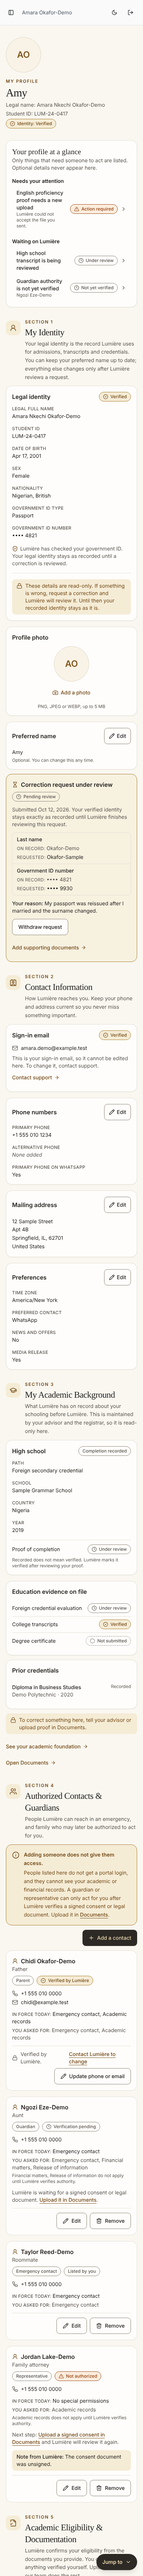
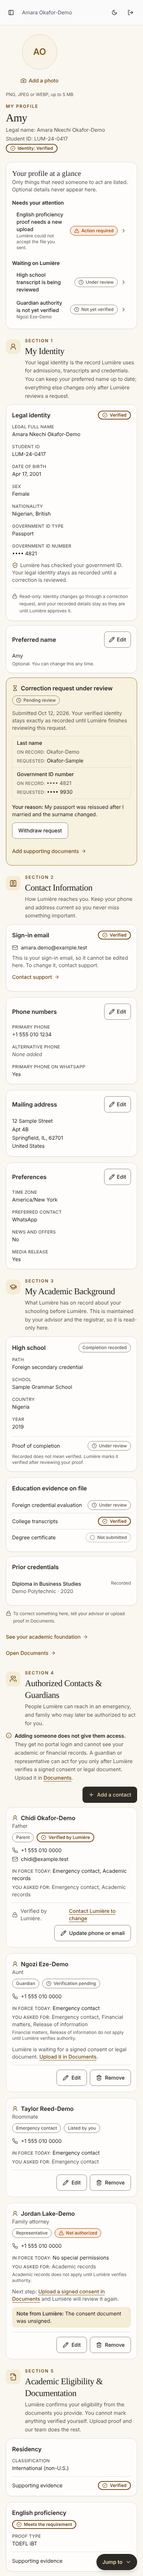
S09: design round 3 (compact dialog footer, explicit staff identity chip, distinct verified treatment)
Claude-Session: https://claude.ai/code/session_0194rFGzGiw8HjkEeZe1cvEj

Changed region(s): [[0.0308, 0.0311, 0.9846, 1.0]]

diff --git a/client/src/components/admin/student-profile-review.tsx b/client/src/components/admin/student-profile-review.tsx
@@ -32,6 +32,7 @@ import {
   showVerifyAction,
   correctionStatusLabel,
   identityTrust,
+  identityStatusChip,
   normalizeHistory,
   resolveBody,
   type TrustBadge,
@@ -59,7 +60,7 @@ async function staffRequest<T>(method: "GET" | "POST", url: string, body?: unkno
 
 const TONE_CLASS: Record<TrustBadge["tone"], string> = {
   verified: "border-green-600/40 bg-green-600/10 text-green-800 dark:text-green-300",
-  pending: "border-amber-500/50 bg-amber-500/10 text-amber-900 dark:text-amber-200",
+  pending: "border-amber-500/60 bg-amber-500/15 text-amber-900 dark:border-amber-400/60 dark:bg-amber-400/15 dark:text-amber-100",
   problem: "border-destructive/40 bg-destructive/10 text-red-700 dark:text-red-300",
   reported: "border-border bg-muted text-muted-foreground",
 };
@@ -73,7 +74,7 @@ const TONE_ICON: Record<TrustBadge["tone"], typeof CheckCircle2> = {
 
 function TrustPill({ badge }: { badge: TrustBadge }) {
   const Icon = TONE_ICON[badge.tone];
-  return <Badge variant="outline" className={`gap-1 whitespace-normal text-left ${TONE_CLASS[badge.tone]}`}>
+  return <Badge variant="outline" className={`gap-1 whitespace-normal text-left text-xs font-semibold ${TONE_CLASS[badge.tone]}`}>
     <Icon className="h-3.5 w-3.5 shrink-0" aria-hidden="true" />
     {badge.label}
   </Badge>;
@@ -82,7 +83,7 @@ function TrustPill({ badge }: { badge: TrustBadge }) {
 function StatusBadge({ status }: { status: IdentityCorrectionRequestView["status"] }) {
   const tone: TrustBadge["tone"] = status === "approved" ? "verified" : status === "pending" ? "pending" : status === "rejected" ? "problem" : "reported";
   const Icon = TONE_ICON[tone];
-  return <Badge variant="outline" className={`gap-1 ${TONE_CLASS[tone]}`}><Icon className="h-3.5 w-3.5 shrink-0" aria-hidden="true" />{correctionStatusLabel(status)}</Badge>;
+  return <Badge variant="outline" className={`gap-1 text-xs font-semibold ${TONE_CLASS[tone]}`}><Icon className="h-3.5 w-3.5 shrink-0" aria-hidden="true" />{correctionStatusLabel(status)}</Badge>;
 }
 
 function Field({ label, children }: { label: string; children: React.ReactNode }) {
@@ -216,6 +217,7 @@ export function StudentProfileReviewView({
   const { identity, contact, contacts } = profile;
   const pending = identity.pendingCorrection;
   const trust = identityTrust(identity.verification);
+  const idChip = identityStatusChip(identity.verification);
   const past = history.filter((h) => h.status !== "pending");
   const decisionContacts = contacts.filter(contactNeedsDecision);
   const decisionCount = (pending ? 1 : 0) + decisionContacts.length;
@@ -255,7 +257,7 @@ export function StudentProfileReviewView({
       </Card>)}
     </div> : null}
     <div className="grid gap-4 lg:grid-cols-2 [&>*]:min-w-0">
-      <Card><CardHeader className="pb-3"><div className="flex flex-wrap items-center justify-between gap-2"><CardTitle className="text-base">Legal identity</CardTitle><TrustPill badge={trust} /></div></CardHeader>
+      <Card><CardHeader className="pb-3"><div className="flex flex-wrap items-center justify-between gap-2"><CardTitle className="text-base">Legal identity</CardTitle><TrustPill badge={idChip} /></div><p className="pt-1 text-xs text-muted-foreground" data-testid="identity-trust-detail">{trust.label}</p></CardHeader>
         <CardContent><dl className="grid gap-3 sm:grid-cols-2">
           <Field label="Student code">{identity.studentCode}</Field>
           <Field label="Legal name">{[identity.firstName, identity.middleName, identity.lastName].filter(Boolean).join(" ")}</Field>
@@ -278,10 +280,15 @@ export function StudentProfileReviewView({
     </div>
     <Card><CardHeader className="pb-3"><CardTitle className="flex items-center gap-2 text-base"><Users className="h-4 w-4" aria-hidden="true" />Contacts &amp; guardian authority</CardTitle></CardHeader>
       <CardContent className="divide-y">
-        {contacts.length === 0 ? <p className="py-2 text-sm text-muted-foreground">The student has not listed any contacts.</p> : contacts.map((c) => <div key={c.id} className="space-y-2 py-3 first:pt-0" data-testid="staff-contact">
+        {contacts.length === 0 ? <p className="py-2 text-sm text-muted-foreground">The student has not listed any contacts.</p> : contacts.map((c) => contactNeedsDecision(c)
+          ? <div key={c.id} className="flex flex-wrap items-center justify-between gap-2 py-2 first:pt-0" data-testid="staff-contact" data-compact="true">
+              <p className="min-w-0 text-sm font-medium">{c.fullName} <span className="font-normal text-muted-foreground">· {c.relationship} ({humanize(c.type)})</span></p>
+              <a href="#needs-decision-heading" className="inline-flex min-h-[28px] items-center rounded-full border border-amber-500/60 bg-amber-500/15 px-2.5 text-xs font-semibold text-amber-900 underline-offset-2 hover:underline dark:border-amber-400/60 dark:bg-amber-400/15 dark:text-amber-100">Awaiting decision ↑</a>
+            </div>
+          : <div key={c.id} className="space-y-2 py-3 first:pt-0" data-testid="staff-contact">
             <div className="flex flex-wrap items-center justify-between gap-2"><p className="font-medium">{c.fullName} <span className="font-normal text-muted-foreground">· {c.relationship} ({humanize(c.type)})</span></p><TrustPill badge={authorityTrust(c.authorityStatus)} /></div>
             <ContactDetails c={c} />
-            {contactNeedsDecision(c) ? <p className="text-xs font-medium text-amber-800 dark:text-amber-200">Awaiting your decision — see “Needs a decision” above.</p> : <ContactActions c={c} canDecide={canDecide} onDecide={onDecide} />}
+            <ContactActions c={c} canDecide={canDecide} onDecide={onDecide} />
           </div>)}
       </CardContent></Card>
     <Card><CardHeader className="pb-3"><CardTitle className="text-base">Correction history</CardTitle></CardHeader>
@@ -290,6 +297,7 @@ export function StudentProfileReviewView({
         <p className="text-xs text-muted-foreground">{new Date(h.createdAt).toISOString().slice(0, 10)}{h.reviewedAt ? ` → ${new Date(h.reviewedAt).toISOString().slice(0, 10)}` : ""}{h.reviewNote ? ` · Note: ${h.reviewNote}` : ""}</p>
       </li>)}</ul>}</CardContent></Card>
     <p className="text-sm text-muted-foreground">Document verification is managed in <a className="font-medium underline underline-offset-2" href={STAFF_PROFILE_PATHS.documents(studentId)}>Documents</a>. Approving a correction never verifies a document.</p>
+    <p className="border-t-2 border-border pt-2 text-center text-xs font-medium uppercase tracking-wide text-muted-foreground" data-testid="profile-end">End of profile &amp; identity</p>
   </section>;
 }
 

diff --git a/client/src/components/profile/profile-ui.tsx b/client/src/components/profile/profile-ui.tsx
@@ -29,18 +29,24 @@ import { Pill, cardClass } from "@/components/student-progress/student-ui";
 import { sectionDomId, type ChipTone } from "./profile-presentation";
 
 export const inputClass =
-  "h-11 border-student-line-strong bg-student-card text-student-ink placeholder:text-student-muted focus-visible:ring-student-gold-ink";
+  "h-11 border-student-line-strong bg-student-card text-student-ink placeholder:text-student-muted focus:ring-student-gold-ink focus-visible:ring-student-gold-ink focus-visible:ring-offset-student-card";
 
-export const dialogClass = "student-surface border-student-line bg-student-card text-student-ink max-h-[90vh] overflow-y-auto overscroll-contain sm:max-w-lg";
+export const dialogClass = "student-surface border-student-line bg-student-card text-student-ink max-h-[90vh] overflow-y-auto overscroll-contain scroll-pb-24 sm:max-w-lg";
 
 const TONE_TO_PILL = {
-  verified: "gold",
   waiting: "neutral",
   missing: "dashed",
   attention: "attn",
   neutral: "neutral",
 } as const;
 
+/**
+ * Semantic colour rules for every student status chip:
+ *  - verified  = success treatment: neutral card, 2px gold outline, check icon
+ *                (never a filled amber/gold wash, which is reserved for attention
+ *                and Lumière notes)
+ *  - attention = filled amber with a warning icon
+ */
 export function StatusChip({
   label,
   tone,
@@ -52,10 +58,23 @@ export function StatusChip({
   className?: string;
   testId?: string;
 }) {
+  if (tone === "verified") {
+    return (
+      <span
+        className={cn(
+          "inline-flex w-fit items-center gap-1.5 rounded-full border-2 border-student-gold-ink bg-student-card px-2.5 py-0.5 text-xs font-semibold text-student-gold-ink",
+          className,
+        )}
+        data-tone="verified"
+        data-testid={testId}
+      >
+        <CheckCircle2 className="h-3.5 w-3.5" aria-hidden="true" />
+        {label}
+      </span>
+    );
+  }
   const icon =
-    tone === "verified" ? (
-      <CheckCircle2 className="h-3.5 w-3.5" aria-hidden="true" />
-    ) : tone === "waiting" ? (
+    tone === "waiting" ? (
       <Clock className="h-3.5 w-3.5" aria-hidden="true" />
     ) : tone === "attention" ? (
       <AlertTriangle className="h-3.5 w-3.5" aria-hidden="true" />
@@ -184,10 +203,11 @@ export function TextLink({ href, children, testId }: { href: string; children: R
   );
 }
 
+/** One short inline lock note per section. */
 export function ReadOnlyNote({ children }: { children: React.ReactNode }) {
   return (
-    <p className="flex items-start gap-2 rounded-lg bg-student-gold-soft px-3 py-2 text-sm text-student-gold-ink">
-      <Lock className="mt-0.5 h-4 w-4 shrink-0" aria-hidden="true" />
+    <p className="flex items-start gap-1.5 text-xs leading-relaxed text-student-muted" data-testid="read-only-note">
+      <Lock className="mt-0.5 h-3.5 w-3.5 shrink-0" aria-hidden="true" />
       <span>{children}</span>
     </p>
   );
@@ -282,8 +302,8 @@ export function FormActions({
   return (
     <div
       className={cn(
-        "flex flex-col-reverse gap-2 pt-2 sm:flex-row sm:justify-end",
-        sticky && "sticky -bottom-6 z-10 -mx-6 -mb-6 border-t border-student-line bg-student-card px-6 pb-4 pt-3",
+        "flex gap-2 pt-2 sm:justify-end",
+        sticky && "sticky -bottom-6 z-10 -mx-6 -mb-6 border-t border-student-line bg-student-card px-4 py-2 sm:px-6",
       )}
       data-testid={sticky ? "dialog-footer" : undefined}
     >
@@ -291,14 +311,14 @@ export function FormActions({
         type="button"
         onClick={onCancel}
         disabled={saving}
-        className="inline-flex min-h-[44px] items-center justify-center rounded-lg border border-student-line-strong bg-student-card px-4 text-sm font-medium text-student-ink hover:bg-student-gold-soft disabled:opacity-60"
+        className="inline-flex min-h-[44px] flex-1 items-center justify-center rounded-lg border border-student-line-strong bg-student-card px-4 text-sm font-medium text-student-ink hover:bg-student-gold-soft disabled:opacity-60 sm:flex-none"
       >
         Cancel
       </button>
       <button
         type="submit"
         disabled={saving || disabled}
-        className="inline-flex min-h-[44px] items-center justify-center gap-2 rounded-lg bg-student-seal px-5 text-sm font-medium text-student-seal-ink hover:opacity-90 disabled:opacity-60"
+        className="inline-flex min-h-[44px] flex-[2] items-center justify-center gap-2 rounded-lg bg-student-seal px-5 text-sm font-medium text-student-seal-ink hover:opacity-90 disabled:opacity-60 sm:flex-none"
       >
         {saving ? "Saving…" : saveLabel}
       </button>

diff --git a/client/src/components/profile/identity-section.tsx b/client/src/components/profile/identity-section.tsx
@@ -444,7 +444,7 @@ export function CorrectionDialog({ identity }: { identity: ProfileIdentity }) {
                     />
                     <span className="font-medium">{FIELD_LABELS[f]}</span>
                     <span className="ml-auto truncate text-xs text-student-muted">
-                      {f === "gov_id_number" ? identity.govIdNumberMasked ?? "" : currentValues(identity)[f]}
+                      {f === "gov_id_number" ? identity.govIdNumberMasked ?? "" : f === "dob" ? formatDate(identity.dob) : currentValues(identity)[f]}
                     </span>
                   </label>
                   {on && (
@@ -514,7 +514,7 @@ export function IdentitySection({ identity }: { identity: ProfileIdentity }) {
       title="My Identity"
       description="Your legal identity is the record Lumière uses for admissions, transcripts and credentials. You can keep your preferred name up to date; everything else changes only after Lumière reviews a request."
     >
-      <div className="grid gap-4 lg:grid-cols-[minmax(0,1fr)_minmax(0,18rem)]">
+      <div className="grid gap-3 sm:gap-4 lg:grid-cols-[minmax(0,1fr)_minmax(0,18rem)] lg:items-start">
         <SubCard
           title="Legal identity"
           testId="legal-identity-card"
@@ -531,34 +531,19 @@ export function IdentitySection({ identity }: { identity: ProfileIdentity }) {
               {identity.govIdNumberMasked}
             </Fact>
           </FactGrid>
-          <p className="mt-4 text-sm text-student-muted" data-testid="verification-explain">
+          <p className="mt-3 text-sm text-student-muted" data-testid="verification-explain">
             <ShieldCheck className="mr-1.5 inline h-4 w-4 align-text-bottom text-student-gold-ink" aria-hidden="true" />
             {chip.explain}
           </p>
-          <div className="mt-4 space-y-3 border-t border-student-line pt-4">
+          <div className="mt-3 space-y-2 border-t border-student-line pt-3">
             <ReadOnlyNote>
-              These details are read-only. If something is wrong, request a correction and Lumière will review it. Until then your recorded identity stays as it is.
+              Read-only. Identity changes go through a correction request, and your recorded details stay as they are until Lumière approves it.
             </ReadOnlyNote>
             {!identity.pendingCorrection && <CorrectionDialog identity={identity} />}
           </div>
         </SubCard>
 
-        <div className="space-y-4">
-          <SubCard title="Profile photo" testId="photo-card">
-            <div className="flex justify-center">
-              <ProfileAvatarUpload
-                photoUrl={identity.photoUrl}
-                firstName={identity.firstName}
-                lastName={identity.lastName}
-                studentId={identity.studentId}
-                onUploadSuccess={() => actions.refresh()}
-                size="xl"
-                showUploadButton
-              />
-            </div>
-          </SubCard>
-          <PreferredNameCard identity={identity} />
-        </div>
+        <PreferredNameCard identity={identity} />
       </div>
 
       {identity.pendingCorrection && <PendingCorrectionCard request={identity.pendingCorrection} />}

diff --git a/client/src/components/profile/contacts-section.tsx b/client/src/components/profile/contacts-section.tsx
@@ -38,20 +38,14 @@ import { Pill } from "@/components/student-progress/student-ui";
 
 export function AuthorityExplainer() {
   return (
-    <div
-      className="flex items-start gap-3 rounded-2xl border border-student-gold bg-student-gold-soft p-4 text-student-gold-ink"
-      data-testid="authority-explainer"
-      role="note"
-    >
-      <Info className="mt-0.5 h-5 w-5 shrink-0" aria-hidden="true" />
-      <div className="space-y-1 text-sm leading-relaxed">
-        <p className="font-semibold">Adding someone does not give them access.</p>
-        <p>
-          People listed here do not get a portal login, and they cannot see your academic or financial records. A guardian or
-          representative can only act for you after Lumière verifies a signed consent or legal document. Upload it in{" "}
-          <Link href="/documents" className="font-medium underline underline-offset-4">Documents</Link>.
-        </p>
-      </div>
+    <div className="flex items-start gap-2 text-sm leading-relaxed text-student-muted" data-testid="authority-explainer" role="note">
+      <Info className="mt-0.5 h-4 w-4 shrink-0 text-student-gold-ink" aria-hidden="true" />
+      <p>
+        <span className="font-semibold text-student-ink">Adding someone does not give them access.</span>{" "}
+        They get no portal login and cannot see your academic or financial records. A guardian or representative can act for you only after
+        Lumière verifies a signed consent or legal document. Upload it in{" "}
+        <Link href="/documents" className="font-medium text-student-gold-ink underline underline-offset-4">Documents</Link>.
+      </p>
     </div>
   );
 }
@@ -92,7 +86,7 @@ export function ContactCard({
   const chip = authorityChip(contact.authorityStatus);
   const locked = isVerifiedAuthority(contact);
   return (
-    <li className="min-w-0 rounded-2xl border border-student-line bg-student-card p-4 sm:p-5" data-testid="contact-card" data-authority={contact.authorityStatus}>
+    <li className="flex min-w-0 flex-col rounded-2xl border border-student-line bg-student-card p-4 sm:p-5" data-testid="contact-card" data-authority={contact.authorityStatus}>
       <div className="flex flex-wrap items-start justify-between gap-2">
         <div className="min-w-0">
           <h3 className="flex items-center gap-2 break-words text-base font-semibold text-student-ink">
@@ -126,7 +120,8 @@ export function ContactCard({
           <span className="font-medium">Note from Lumière: </span>{contact.authorityNote}
         </p>
       )}
-      <div className="mt-3 flex flex-wrap items-center gap-2 border-t border-student-line pt-3">
+      <div className="h-3 shrink-0" aria-hidden="true" />
+      <div className="mt-auto flex flex-wrap items-center gap-2 border-t border-student-line pt-3">
         {locked && (
           <p className="flex items-center gap-2 text-sm text-student-muted" data-testid="contact-locked">
             <Lock className="h-4 w-4" aria-hidden="true" />

diff --git a/client/src/components/profile/profile-page-view.tsx b/client/src/components/profile/profile-page-view.tsx
@@ -13,6 +13,7 @@ import { StudentSurface, buttonClass, cardClass } from "@/components/student-pro
 import { ProfileAvatarUpload } from "@/components/profile-avatar-upload";
 import { PROFILE_SECTIONS, displayName, readinessChip, sectionDomId, splitReadiness, verificationChip } from "./profile-presentation";
 import { StatusChip } from "./profile-ui";
+import { useProfileActions } from "./profile-actions";
 import { IdentitySection } from "./identity-section";
 import { ContactSection } from "./contact-section";
 import { BackgroundSection } from "./background-section";
@@ -186,9 +187,18 @@ export function ReadinessPanel({ items }: { items: readonly ProfileReadinessItem
 export function ProfileHeader({ identity }: { identity: StudentProfileView["identity"] }) {
   const names = displayName(identity);
   const chip = verificationChip(identity.verification);
+  const actions = useProfileActions();
   return (
     <header className="flex flex-col items-start gap-4 sm:flex-row sm:items-center" data-testid="profile-header">
-      <ProfileAvatarUpload photoUrl={identity.photoUrl} firstName={identity.firstName} lastName={identity.lastName} size="xl" />
+      <ProfileAvatarUpload
+        photoUrl={identity.photoUrl}
+        firstName={identity.firstName}
+        lastName={identity.lastName}
+        studentId={identity.studentId}
+        onUploadSuccess={() => actions.refresh()}
+        size="xl"
+        showUploadButton
+      />
       <div className="min-w-0 space-y-1">
         <p className="text-xs font-semibold uppercase tracking-[0.14em] text-student-gold-ink">My profile</p>
         <h1 className="break-words font-serif text-3xl leading-tight tracking-tight text-student-ink sm:text-5xl" data-testid="text-profile-name">
@@ -208,7 +218,7 @@ export function ProfilePageView({ profile }: { profile: StudentProfileView }) {
   return (
     <StudentSurface testId="page-student-profile">
       <ProfileSectionNav />
-      <div className="mx-auto max-w-6xl space-y-8 pb-24 pt-4 sm:space-y-10 sm:pt-6 lg:pb-0">
+      <div className="mx-auto max-w-6xl space-y-6 pb-24 pt-2 sm:space-y-8 sm:pt-4 lg:pb-0">
         <ProfileHeader identity={profile.identity} />
         <ReadinessPanel items={profile.readiness} />
         <IdentitySection identity={profile.identity} />

diff --git a/client/src/components/admin/student-profile-review-logic.ts b/client/src/components/admin/student-profile-review-logic.ts
@@ -63,6 +63,21 @@ export function identityTrust(verification: EvidenceStatus): TrustBadge {
   }
 }
 
+/** Explicit identity chip; same mapping as the student header. */
+export function identityStatusChip(verification: EvidenceStatus): TrustBadge {
+  switch (verification) {
+    case "verified":
+      return { label: "Identity: Verified", tone: "verified" };
+    case "pending":
+      return { label: "Identity: Under review", tone: "pending" };
+    case "rejected":
+    case "resubmit_requested":
+      return { label: "Identity: Action required", tone: "problem" };
+    default:
+      return { label: "Identity: Not verified", tone: "reported" };
+  }
+}
+
 export function authorityTrust(status: ContactAuthorityStatus): TrustBadge {
   switch (status) {
     case "verified":

diff --git a/docs/recovery/s09-evidence/keyboard-pass.md b/docs/recovery/s09-evidence/keyboard-pass.md
@@ -1,6 +1,6 @@
 # S09 keyboard pass — student profile
 
-Generated 2026-10-26T20:16:29.814Z by `scripts/s09/render-profile-screens.ts` (Chromium, 1440x900, light theme, fixture data, real page code).
+Generated 2026-10-26T20:22:59.374Z by `scripts/s09/render-profile-screens.ts` (Chromium, 1440x900, light theme, fixture data, real page code).
 
 Method: focus is moved to the document start, then `Tab` is pressed repeatedly; after each press the active element, its accessible name and its focus indicator (computed outline or box-shadow ring) are recorded. Afterwards every visible focusable element on the page is compared with the set that Tab reached.
 
@@ -29,10 +29,10 @@ Method: focus is moved to the document start, then `Tab` is pressed repeatedly; 
 | 14 | a | Authorized Contacts | outline 2px solid |
 | 15 | a | Eligibility & Documents | outline 2px solid |
 | 16 | a | Account | outline 2px solid |
-| 17 | a | English proficiency proof needs a new uploadLumière could no | outline 2px solid |
-| 18 | a | High school transcript is being reviewedUnder review | outline 2px solid |
-| 19 | a | Guardian authority is not yet verifiedNgozi Eze-DemoNot yet  | outline 2px solid |
-| 20 | button | Add a photo | outline 2px solid |
+| 17 | button | Add a photo | outline 2px solid |
+| 18 | a | English proficiency proof needs a new uploadLumière could no | outline 2px solid |
+| 19 | a | High school transcript is being reviewedUnder review | outline 2px solid |
+| 20 | a | Guardian authority is not yet verifiedNgozi Eze-DemoNot yet  | outline 2px solid |
 | 21 | button | Edit preferred name | outline 2px solid |
 | 22 | button | Withdraw request | outline 2px solid |
 | 23 | a | Add supporting documents | outline 2px solid |
